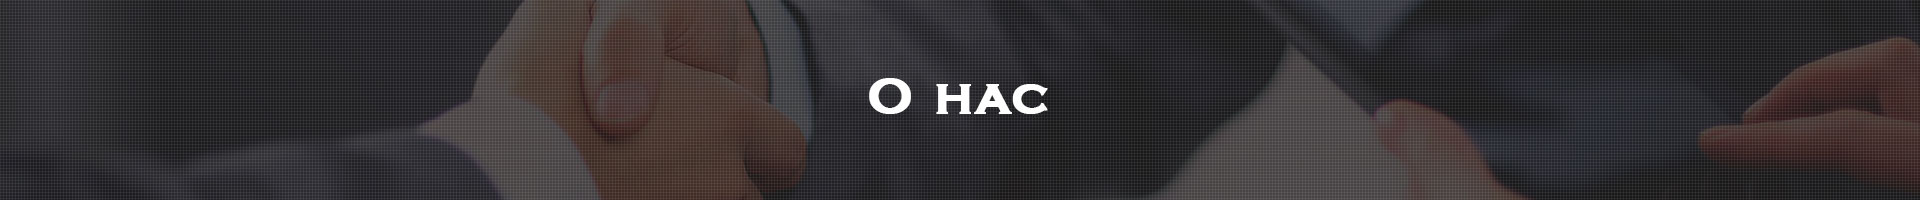
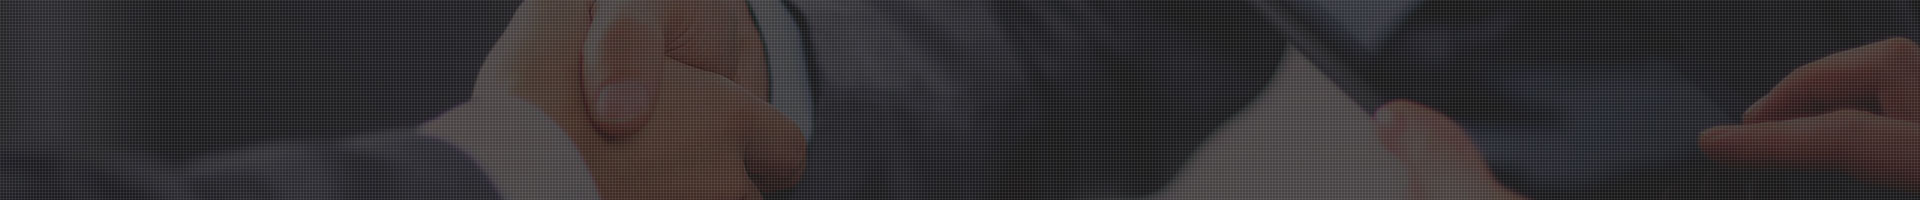
Team-about-us main layout and styles

Changed region(s): [[0.4375, 0.39, 0.5625, 0.57]]

diff --git a/client/app/team/team.html b/client/app/team/team.html
@@ -1,4 +1,24 @@
+<div class="banner-caption banner-about-team"><p>О нас</p></div>
+<div class="container team-about-us">
+  <blockquote>« Не поднимешься в горы — не узнаешь высоты неба; не спустишься в бездну — не узнаешь толщи земли. »</blockquote>
 
+  <div>
+    <div><img src="../../assets/images/team/ico-info.jpg" alt=""></div>
+    <p>У большинства так не бывает, но у нас слова <span class="text-highlight">«молодая»</span>, <span class="text-highlight">«эффективная»</span> и <span class="text-highlight">«команда разработчиков»</span> сочетаются ультра-гармонично. Все потому, что мы амбициозные, работаем слаженно и используем передовые технологии, что в совокупности даёт максимальный эффект. А молодые не потому, что студенты, просто <span class="text-highlight">идем в ногу со временем</span>.<br>Высоконагруженные проекты, объединяющие в себе <span class="text-bold">сложный веб-портал, мобильное приложение, гаджет, качественное продвижение в сети</span> – это к нам! Наш уровень профессионализма, опыт и используемые технологии дают уверенность в том, что <span class="text-bg-highlight">проект будет развиваться</span>. Эта уверенность передаётся и Вам!</p>
+  </div>
+
+  <p>Миссия</p>
+  <div>
+    <div><img src="../../assets/images/team/ico-mission.jpg" alt=""></div>
+    <p>OnlineLab появилась в <span class="text-bold">2011 году</span> как веб-студия. Но мы быстро осознали, что с нашим уровнем знаний и опытом делать простые сайты нам неинтересно: нас тянет к <span class="text-highlight">настоящим</span>, <span class="text-highlight">сложным</span> и <span class="text-highlight">крупным проектам</span>.<br>Как говорил У. Черчилль: <span class="text-bold">«Лучше иметь амбициозные цели, чем не иметь никаких»</span>. Мы амбициозны, потому что хотим сделать качественный продукт и тем самым улучшить мир! <span class="text-bg-highlight">Ведь, если сделать что-то полезное, мир станет лучше, не правда ли?</span> Каждый день мы видим перед собой эту генеральную цель и идём работать с воодушевлением. <span class="text-bg-highlight">Мы не хотим быть только потребителями, нам нравится созидать.</span></p>
+  </div>
+
+  <p>Команда</p>
+  <div>
+    <div><img src="../../assets/images/team/ico-team.jpg" alt=""></div>
+    <p>Сейчас компания имеет <span class="text-bold">2 офиса</span>: в <span class="text-highlight">Тамбове</span> и <span class="text-highlight">Нью-Йорке</span>, а также представительства в <span class="text-highlight">Таллине</span>, на <span class="text-highlight">Кипре</span>, в <span class="text-highlight">Лондоне</span>. Отбор сотрудников в OnlineLab проходит по принципу: <span class="text-bg-highlight">если человек обладает нужным опытом и готов разделять наши ценности и цели – он в команде.</span><br>Возможно, мы слишком увлечены своим делом ( даже во время пятничных посиделок с пивом мы рассказываем про новые технологии). <span class="text-bold">Каждый из нас развивается в своей области, совершенствуется и делится о новинках со всей командой</span>. Это позволяет всегда быть в курсе нового. <span class="text-bg-highlight">Так происходит самообучение и развитие.</span></p>
+  </div>
+</div>
 
 <script>
 jQuery(document).ready(function($){
@@ -55,6 +75,7 @@ jQuery(document).ready(function($){
     visibleSlide.removeClass('selected from-left from-right').addClass('is-moving').one('webkitTransitionEnd otransitionend oTransitionEnd msTransitionEnd transitionend', function(){
       visibleSlide.removeClass('is-moving');
     });
+
 
 
     container.children('li').eq(n).addClass('selected from-right').prevAll().addClass('move-left');

diff --git a/client/app/app.less b/client/app/app.less
@@ -73,6 +73,11 @@ h1{
 @import '../assets/fonts/fonts.less';
 
 
+.container{
+    margin: 0 auto;
+    width: @content-width;
+}
+
 .banner-caption{
   display: table;
   height: 200px;
@@ -87,6 +92,23 @@ h1{
     vertical-align: middle;
   }
 }
+
+.main-font{
+  color: #6c6c6c;
+  font: 16px/30px ProximaNovaRegular;
+}
+
+.text-bold{
+  color: #000;
+  font-family: ProximaNovaBold;
+}
+.text-highlight{
+  color: @green-color;
+}
+.text-bg-highlight{
+  background: #eaf6f4;
+}
+
 
 
 @import 'header_directive/header_directive.less'; /* Import header styles */

diff --git a/client/app/team/team.less b/client/app/team/team.less
@@ -1,0 +1,17 @@
+blockquote{
+  background: #eaf6f4;
+  border: 1px solid #dbe7e6;
+  color: #000;
+  font-style: italic;
+  text-align: center;
+}
+
+.banner-about-team{
+  background: url(../../assets/images/team/banner-about-us.jpg);
+}
+
+.team-about-us{
+  p{
+    .main-font;
+  }
+}

diff --git a/client/app/main/main.less b/client/app/main/main.less
@@ -1,9 +1,7 @@
 /*Main page styles*/
 
 .container{
-    width: @content-width;
-    margin: 0 auto;
-
+    
   .caption{
     color:#2eafa0;
     font-family: "ProximaNovaRegular";
